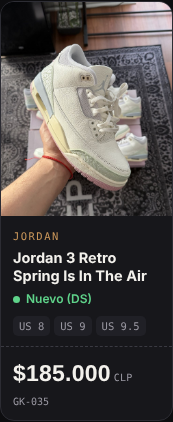
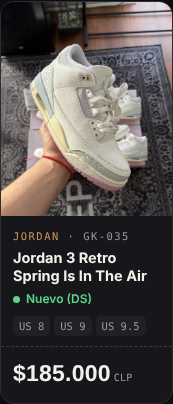
Tarjetas: código junto a la marca para que no se corte
Claude-Session: https://claude.ai/code/session_01By1QkhN89LzJbN2UBJdCAg

diff --git a/index.html b/index.html
@@ -115,10 +115,10 @@ button{font:inherit;color:inherit}
 .sizes-mini span{font-family:var(--f-mono);font-size:10.5px;padding:2px 6px;border-radius:5px;background:var(--box-2);color:var(--muted)}
 /* etiqueta de caja */
 .label{margin-top:10px;border-top:1px dashed #3a3a42;padding:9px 12px 11px;display:flex;flex-wrap:wrap;align-items:baseline;justify-content:space-between;gap:2px 8px}
-.price{font-family:var(--f-display);font-weight:800;font-size:23px;letter-spacing:.01em;font-variant-numeric:tabular-nums}
+.price{font-family:var(--f-display);font-weight:800;font-size:23px;letter-spacing:.01em;font-variant-numeric:tabular-nums;white-space:nowrap;flex:none}
 .price small{font-family:var(--f-mono);font-size:10px;color:var(--muted);margin-left:3px;font-weight:500}
 .price s{color:var(--muted)}
-.code{font-family:var(--f-mono);font-size:10px;color:var(--muted);white-space:nowrap}
+.code{color:var(--muted);white-space:nowrap}
 .empty{grid-column:1/-1;padding:40px 16px;text-align:center;color:var(--muted);border:1px dashed var(--line);border-radius:var(--r)}
 
 /* tallas */
@@ -470,7 +470,7 @@ function card(p){
       ${off?`<div class="sold-over">Agotado</div>`:""}
     </div>
     <div class="card-body">
-      <div class="brand">${esc(p.brand)}</div>
+      <div class="brand">${esc(p.brand)} <span class="code">· ${esc(p.code)}</span></div>
       <div class="name">${esc(p.name)}</div>
       <div class="cond ${p.cond}">${esc(p.condText)}</div>
       ${p.colors&&p.colors.length>1?`<div class="cond" style="color:var(--muted)">${p.colors.length} colores</div>`:""}
@@ -478,7 +478,6 @@ function card(p){
     </div>
     <div class="label">
       <span class="price">${off?`<s>${clp(p.price)}</s>`:clp(p.price)}<small>CLP</small></span>
-      <span class="code">${esc(p.code)}</span>
     </div>
   </button>`;
 }
